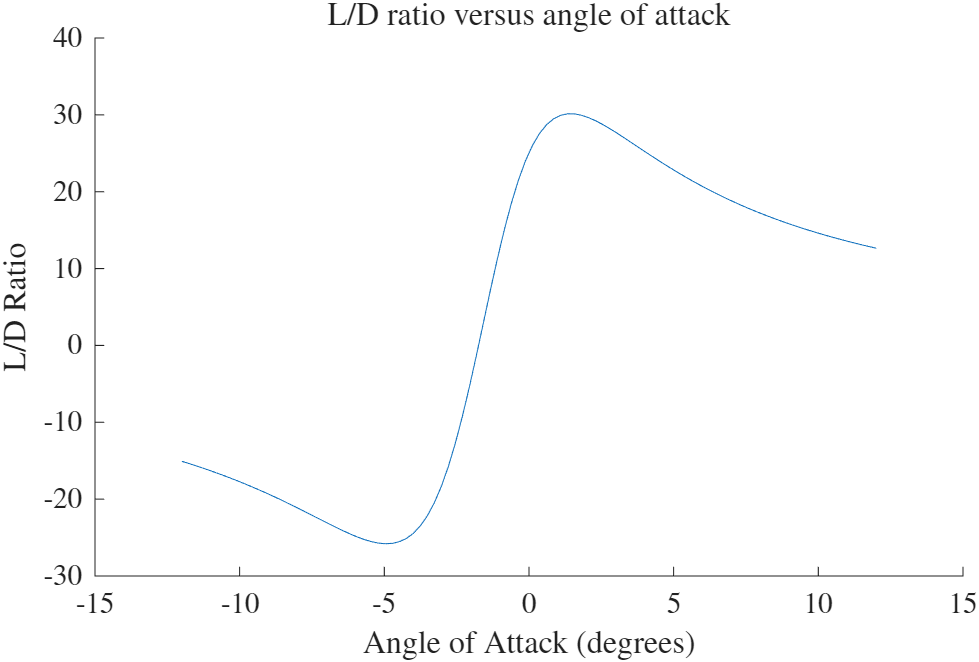
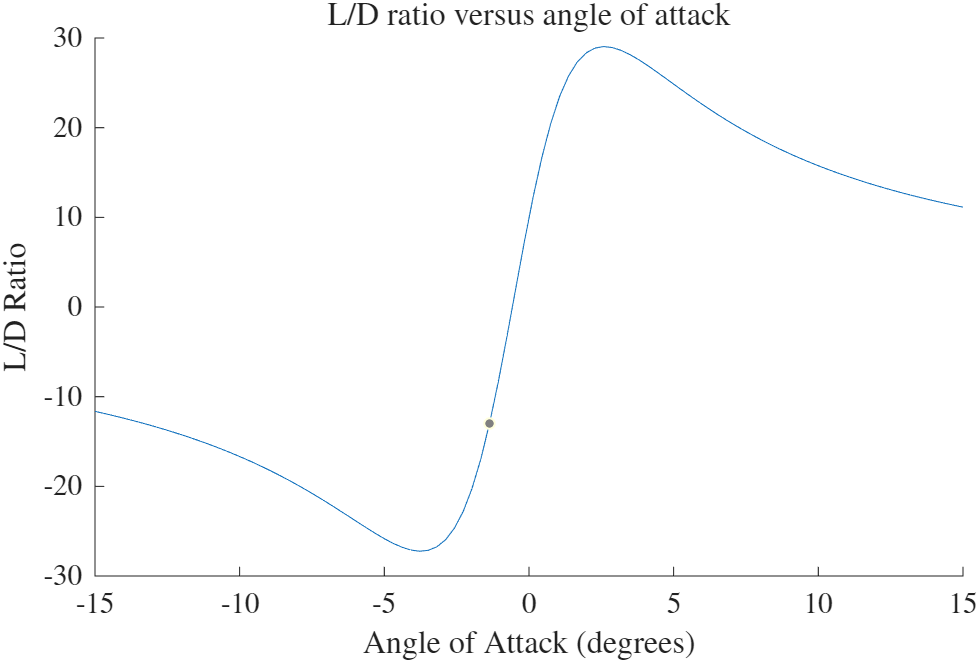
Expanded range

diff --git a/Lab03_Main.m b/Lab03_Main.m
@@ -487,7 +487,7 @@ alpha_2412=[-8;-6;-4;-2;0;2;4;6;8;10;11;12.5]; %Digitizer gives in terms of C_l,
 [p_2412,s_2412]=polyfit(alpha_2412,cd_2412(:,2),2); %Digitizer gives different sized arrays, curve fitting to create same size and allow for more data points
 
 
-alpha=linspace(-12,12,100); %Maximum angle of attack range for digitizer
+alpha=linspace(-15,15,100); %Maximum angle of attack range for digitizer
 
 cd_0012=polyval(p_0012,alpha); %Creating same sized arrays based on maximum angles of attack
 cd_2412=polyval(p_2412,alpha); %Creating same sized arrays based on maximum angles of attack
